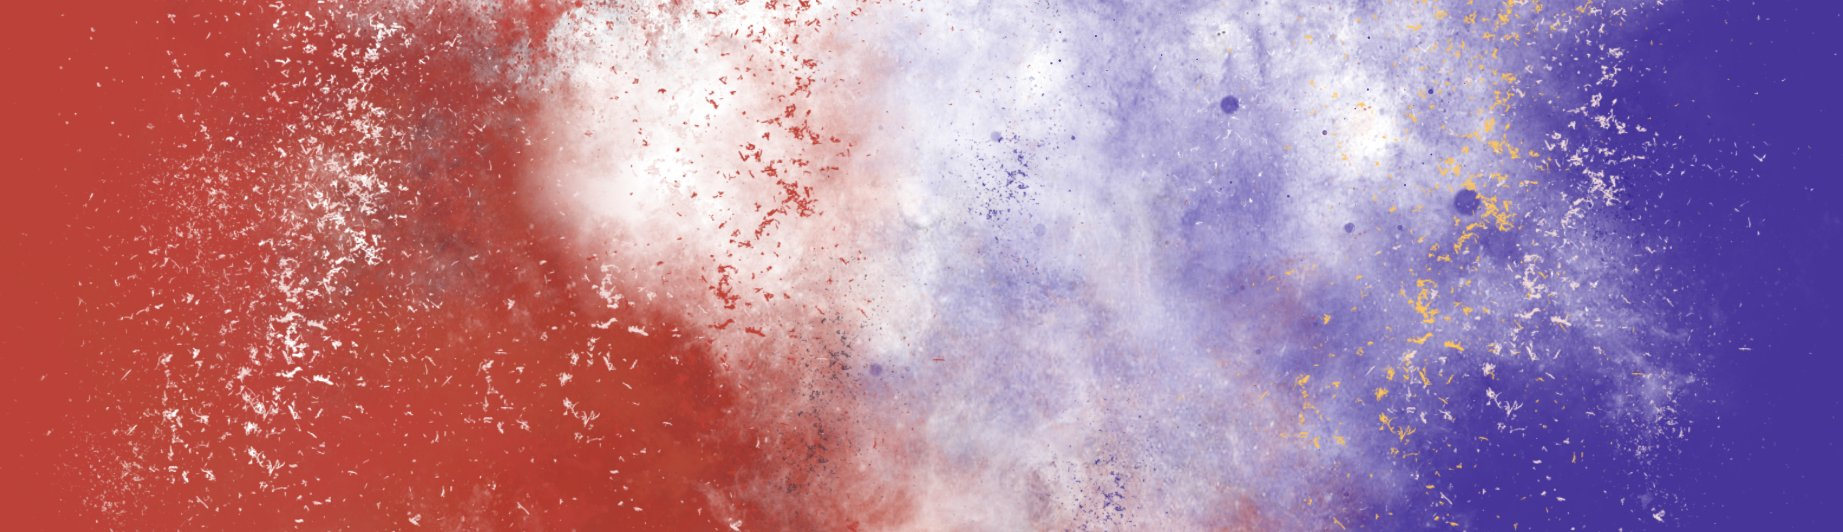
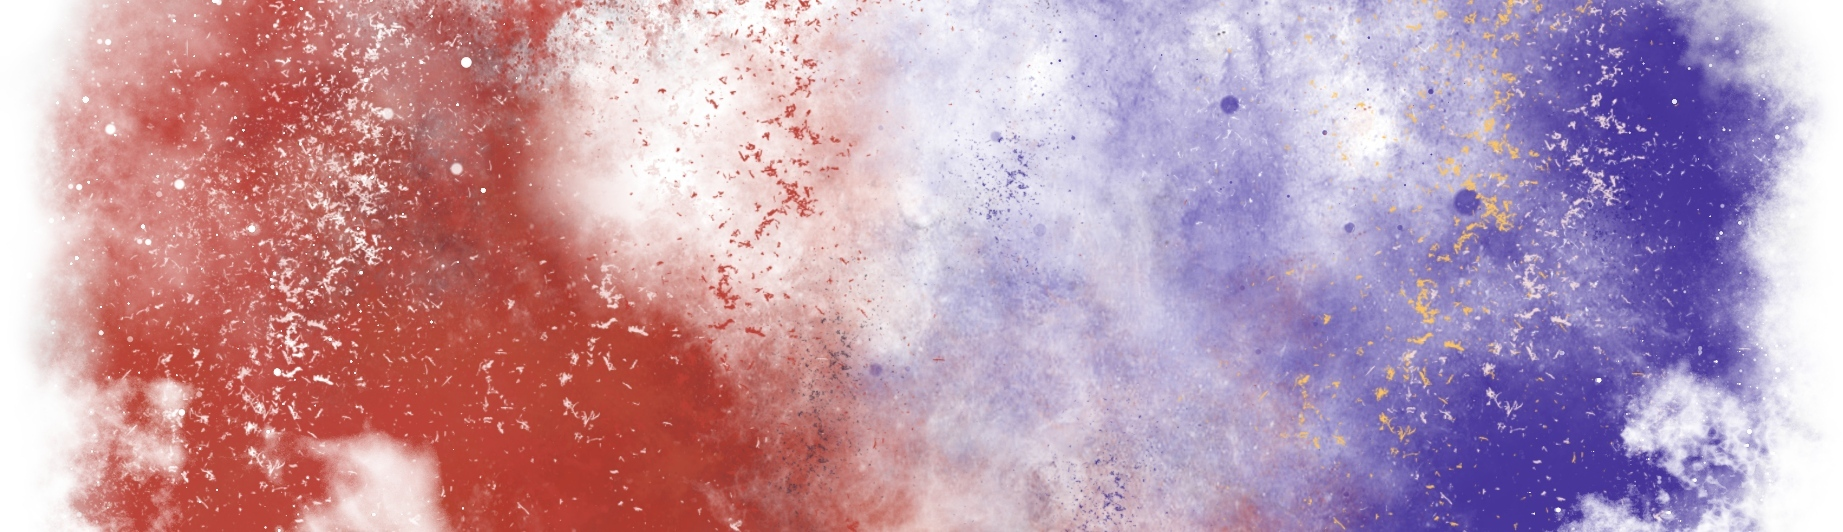
bg fix

Changed region(s): [[0.0, 0.0, 0.2784, 1.0], [0.8351, 0.0, 1.0, 1.0]]

diff --git a/src/scss/themes/_superbowl-liv.scss b/src/scss/themes/_superbowl-liv.scss
@@ -3,7 +3,7 @@ html {
     //background-color: #BC213B;
     //background:#ff9322;background:-webkit-linear-gradient(45deg,#FFD3B9 0%,#CA465A 50%,#543660 98%) fixed;
     //background:-o-linear-gradient(45deg,#FFD3B9 0%,#CA465A 50%,#543660 98%) fixed;background:linear-gradient(45deg,#FFD3B9 0%,#CA465A 50%,#543660 98%) fixed;
-    background-color:linear-gradient(45deg,#BC4139 0%,#47359A 50%) fixed;
+    background-color:#ffffff;
 	z-index: 1;
    	background-size: auto;
     background-position: center 100px;
